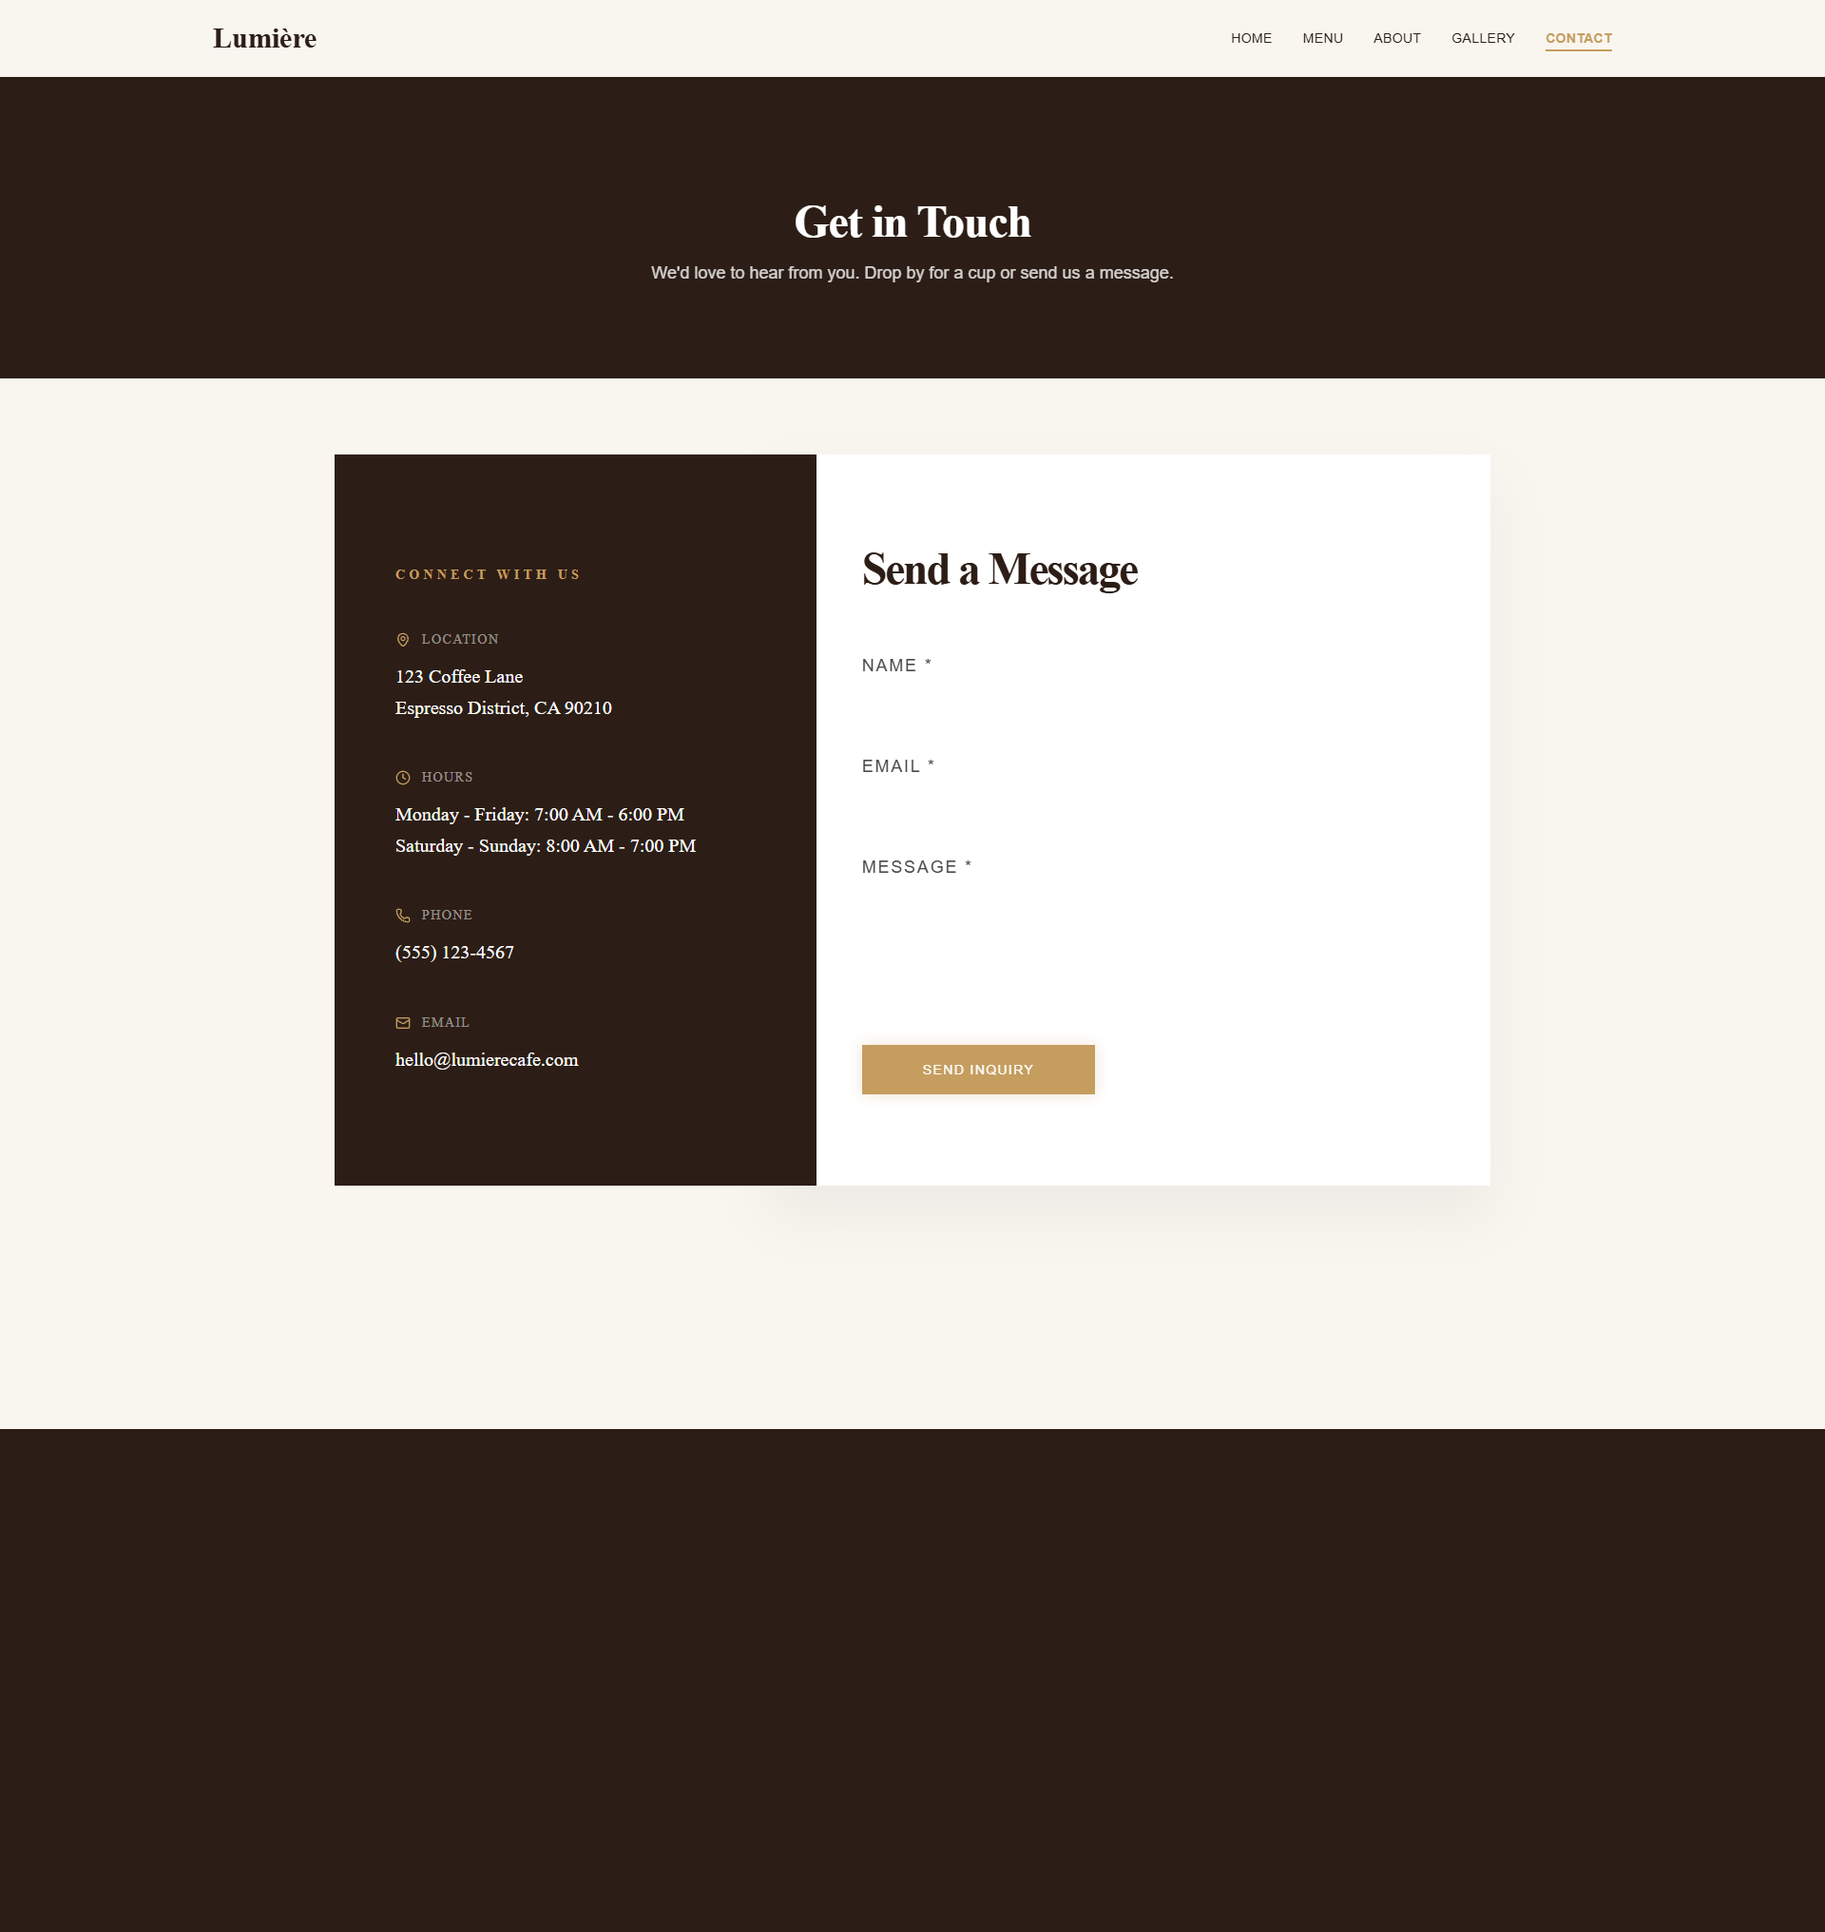
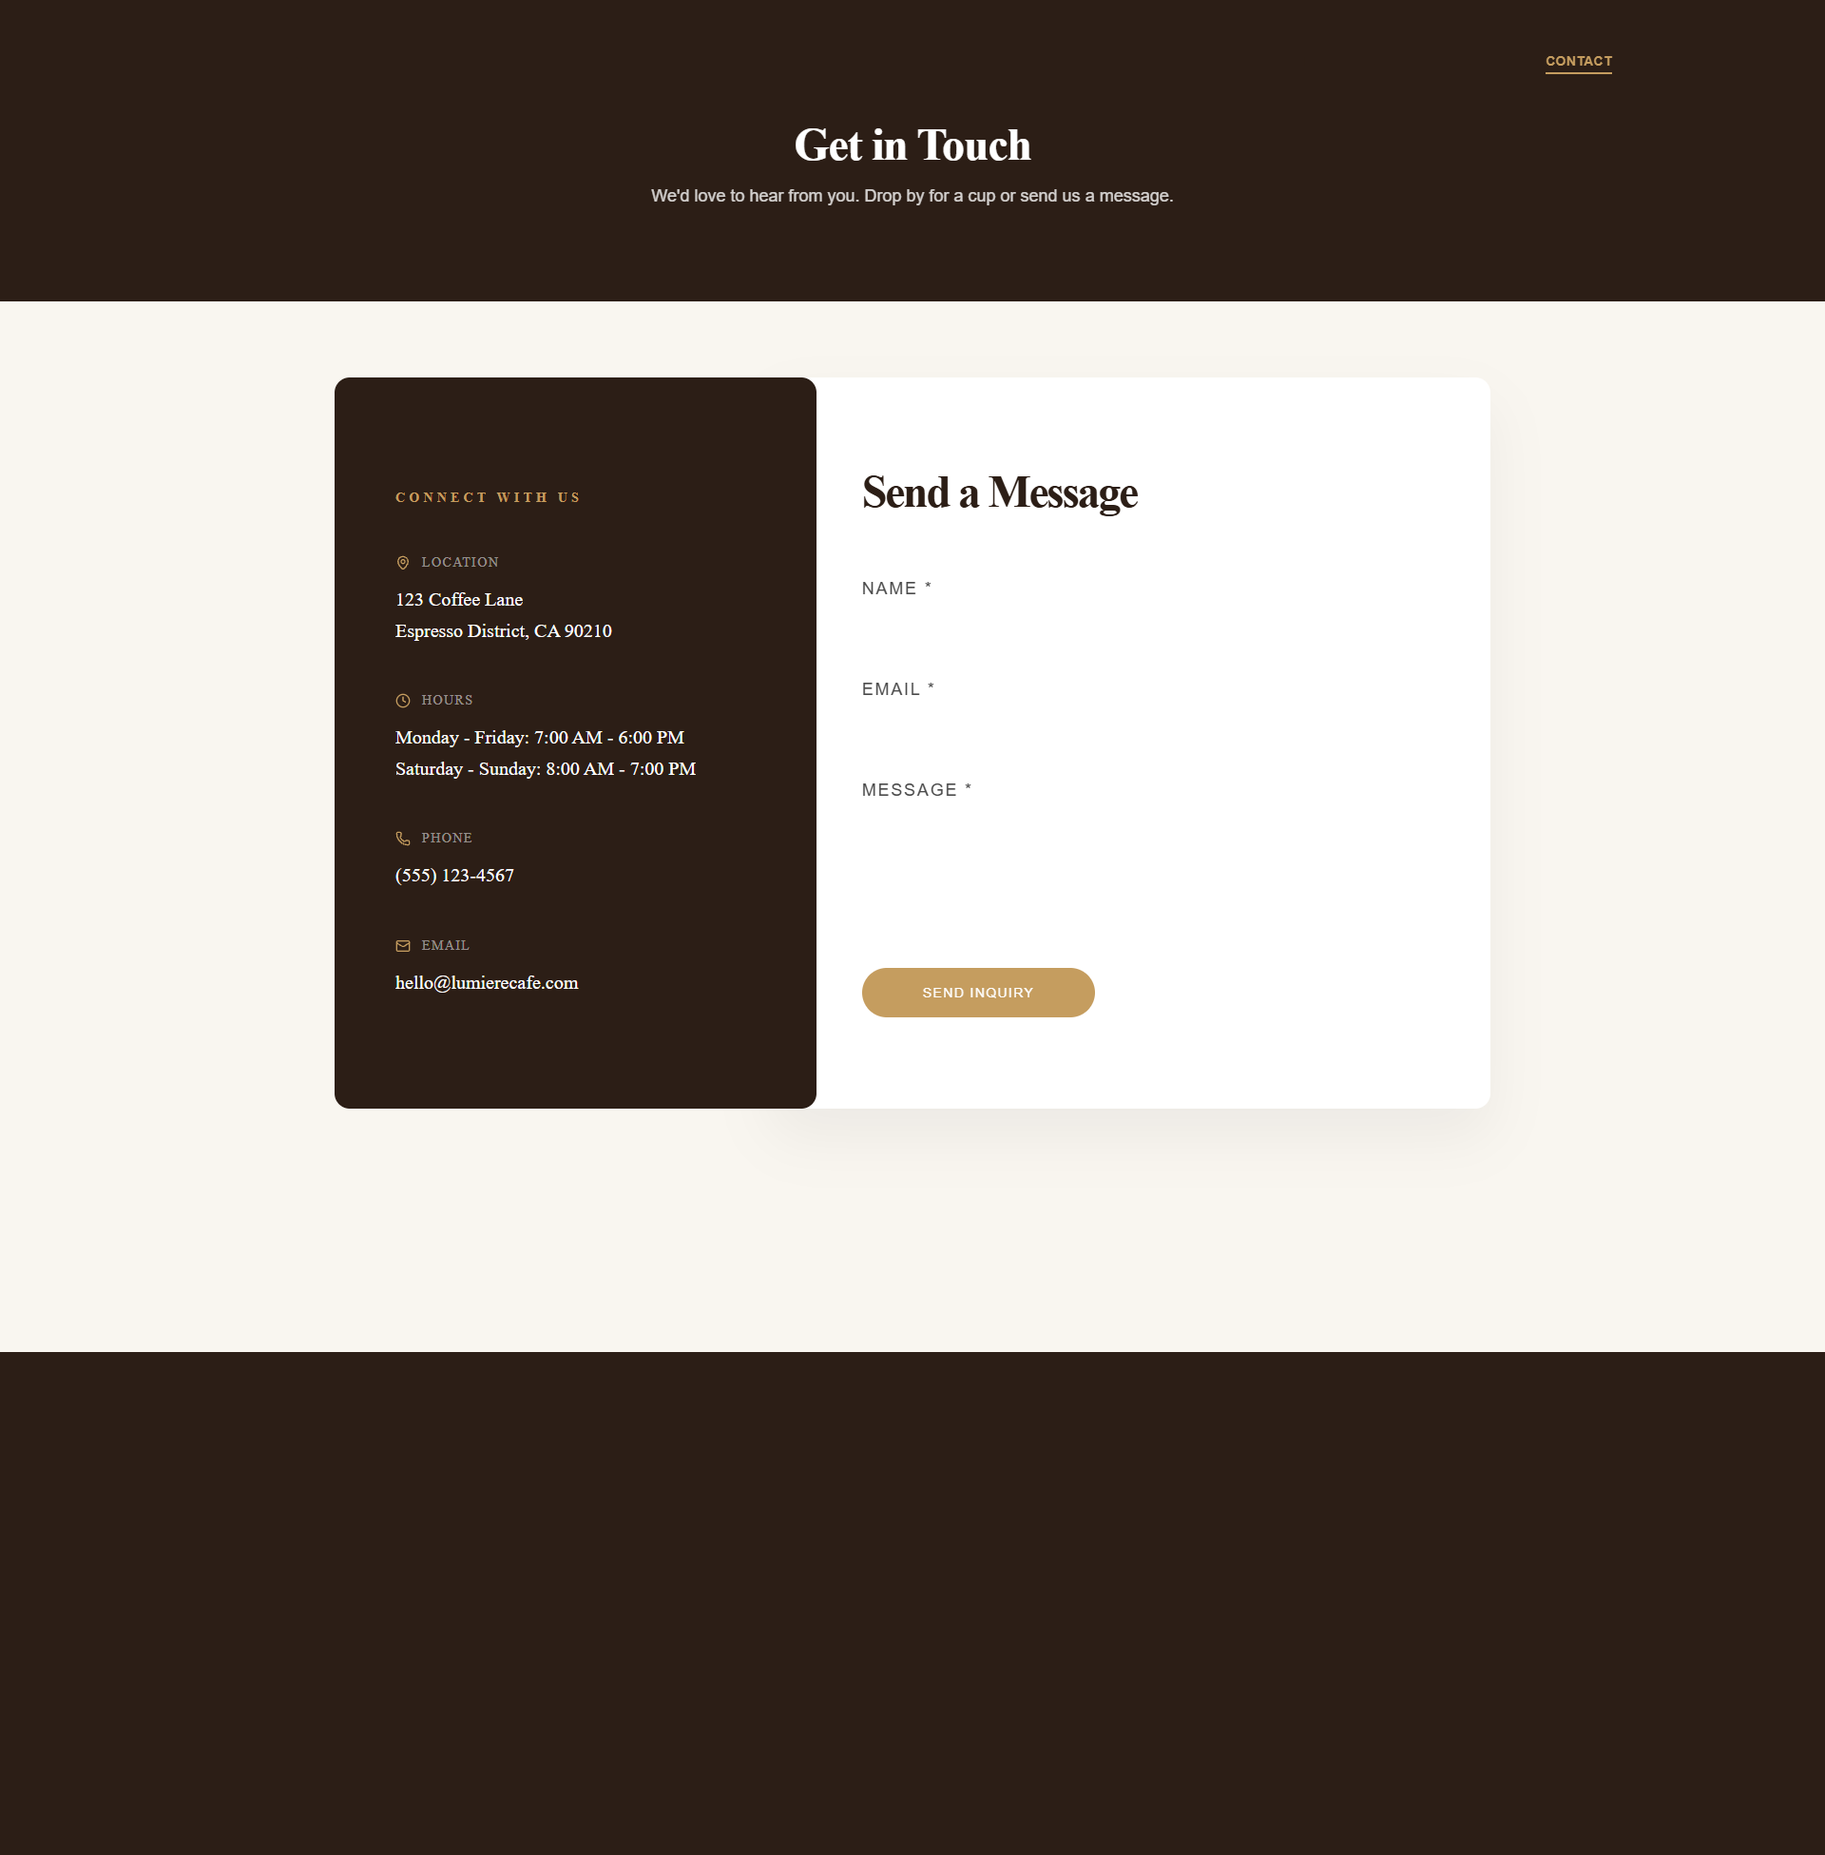
feat: pixel-perfect final polish, unified styling, and custom animations

diff --git a/src/pages/Home.jsx b/src/pages/Home.jsx
@@ -33,22 +33,22 @@ export default function Home() {
           />
         </div>
         
-        <div className="relative z-10 text-center px-4 max-w-4xl mx-auto animate-fade-in-up mt-8">
-          <h1 className="text-6xl md:text-8xl font-serif font-bold text-surface mb-6 tracking-tight drop-shadow-lg">
-            Awaken Your Senses
+        <div className="relative z-10 text-center px-4 max-w-5xl mx-auto animate-slide-up mt-8">
+          <h1 className="text-7xl md:text-8xl lg:text-[10rem] font-serif font-bold text-surface mb-8 tracking-tighter leading-[0.9] drop-shadow-2xl mix-blend-overlay">
+            Awaken Your Senses.
           </h1>
-          <p className="text-xl md:text-3xl text-surface/90 mb-12 max-w-3xl mx-auto font-light leading-relaxed drop-shadow-md">
+          <p className="text-xl md:text-3xl text-surface mb-16 max-w-3xl mx-auto font-light leading-relaxed drop-shadow-md">
             Experience artisanal coffee crafted with passion, precision, and the world's finest beans.
           </p>
-          <div className="flex flex-col sm:flex-row gap-6 justify-center">
+          <div className="flex flex-col sm:flex-row gap-6 justify-center items-center">
             <Link to="/menu">
-              <Button variant="primary" className="w-full sm:w-auto text-lg px-10 py-5 animate-pulse-glow">
+              <Button variant="primary" className="w-full sm:w-auto text-sm tracking-[0.2em] uppercase px-12 py-5 font-bold">
                 Explore Menu
-                <ArrowRight className="ml-3" size={22} />
+                <ArrowRight className="ml-4 transition-transform group-hover:translate-x-2" size={18} strokeWidth={2.5} />
               </Button>
             </Link>
             <Link to="/contact">
-              <Button variant="ghost" className="w-full sm:w-auto text-lg px-10 py-5">
+              <Button variant="ghost" className="w-full sm:w-auto text-sm tracking-[0.2em] uppercase px-12 py-5 font-bold">
                 Visit Us
               </Button>
             </Link>
@@ -56,14 +56,14 @@ export default function Home() {
         </div>
         
         {/* Scroll Indicator */}
-        <div className="absolute bottom-10 left-1/2 transform -translate-x-1/2 z-20 flex flex-col items-center animate-bounce-slow">
-          <span className="text-surface/80 text-sm tracking-widest uppercase font-medium mb-2">Scroll Down</span>
-          <div className="w-[1px] h-12 bg-gradient-to-b from-surface/80 to-transparent"></div>
+        <div className="absolute bottom-12 left-1/2 transform -translate-x-1/2 z-20 flex flex-col items-center">
+          <span className="text-surface text-xs tracking-[0.3em] uppercase font-bold mb-4 opacity-80">Discover</span>
+          <div className="w-[2px] h-16 bg-gradient-to-b from-surface to-transparent animate-slide-up origin-top"></div>
         </div>
       </section>
 
       {/* Featured Section */}
-      <section className="py-32 bg-background">
+      <section className="py-40 bg-background relative overflow-hidden">
         <div className="container mx-auto px-4 sm:px-6 lg:px-8">
           <RevealSection>
             <SectionHeader 
@@ -131,15 +131,16 @@ export default function Home() {
       </section>
 
       {/* Story Section */}
-      <section className="py-32 bg-primary text-surface relative overflow-hidden">
-        <div className="container mx-auto px-4 sm:px-6 lg:px-8 relative z-10">
-          <div className="grid grid-cols-1 lg:grid-cols-2 gap-20 items-center">
+      <section className="py-40 bg-primary text-surface relative overflow-hidden">
+        <div className="container mx-auto px-4 sm:px-6 lg:px-8 relative z-10 max-w-7xl">
+          <div className="grid grid-cols-1 lg:grid-cols-2 gap-24 items-center">
             <RevealSection>
-              <h2 className="text-5xl md:text-6xl font-serif font-bold mb-8 tracking-tight">The Pursuit of Perfection</h2>
-              <p className="text-surface/80 text-lg md:text-xl leading-relaxed mb-6 font-light">
+              <h3 className="text-secondary text-sm font-bold tracking-[0.3em] uppercase mb-6">Our Legacy</h3>
+              <h2 className="text-6xl md:text-7xl font-serif font-bold mb-10 tracking-tighter leading-[1.1]">The Pursuit of Perfection</h2>
+              <p className="text-surface/80 text-xl leading-relaxed mb-8 font-light">
                 Founded in 2018, Lumière was born from a simple belief: that coffee is more than just a morning routine—it's an experience, a craft, and a moment of connection.
               </p>
-              <p className="text-surface/80 text-lg md:text-xl leading-relaxed mb-10 font-light">
+              <p className="text-surface/80 text-xl leading-relaxed mb-12 font-light">
                 We ethically source the highest quality beans from sustainable farms worldwide, and roast them locally to bring out their intrinsic flavors. Every cup we serve is a testament to our dedication to the art of coffee.
               </p>
               <Link to="/about">

diff --git a/src/pages/Contact.jsx b/src/pages/Contact.jsx
@@ -86,7 +86,7 @@ export default function Contact() {
         <div className="grid grid-cols-1 lg:grid-cols-12">
           {/* Contact Info (Dark Card) */}
           <RevealSection className="lg:col-span-5 relative z-10">
-            <div className="bg-primary text-surface p-12 lg:p-16 h-full flex flex-col justify-center">
+            <div className="bg-primary text-surface p-12 lg:p-16 rounded-2xl h-full flex flex-col justify-center">
               <h3 className="text-sm uppercase tracking-[0.3em] text-secondary font-bold mb-12">Connect With Us</h3>
               
               <div className="space-y-12">
@@ -129,7 +129,7 @@ export default function Contact() {
 
           {/* Contact Form */}
           <RevealSection className="lg:col-span-7 delay-200">
-            <div className="bg-surface p-12 lg:p-24 shadow-[0_30px_60px_rgb(0,0,0,0.05)] lg:-ml-12 relative h-full">
+            <div className="bg-surface p-12 lg:p-24 shadow-[0_30px_60px_rgb(0,0,0,0.05)] rounded-2xl lg:-ml-12 relative h-full">
               <h2 className="text-4xl md:text-5xl font-serif font-bold text-primary mb-12 tracking-tighter">Send a Message</h2>
               
               {isSuccess && (
@@ -195,7 +195,7 @@ export default function Contact() {
                   <Button 
                     type="submit"
                     variant="primary"
-                    className="w-full md:w-auto px-16 rounded-none tracking-widest uppercase text-sm font-bold"
+                    className="w-full md:w-auto px-16 tracking-widest uppercase text-sm font-bold"
                     disabled={isSubmitting}
                   >
                     {isSubmitting ? 'Sending...' : 'Send Inquiry'}

diff --git a/src/components/common/Navbar.jsx b/src/components/common/Navbar.jsx
@@ -1,10 +1,19 @@
-import { useState } from 'react';
+import { useState, useEffect } from 'react';
 import { Link, useLocation } from 'react-router-dom';
 import { Menu, X } from 'lucide-react';
 
 export default function Navbar() {
   const [isOpen, setIsOpen] = useState(false);
+  const [scrolled, setScrolled] = useState(false);
   const location = useLocation();
+
+  useEffect(() => {
+    const handleScroll = () => {
+      setScrolled(window.scrollY > 50);
+    };
+    window.addEventListener('scroll', handleScroll);
+    return () => window.removeEventListener('scroll', handleScroll);
+  }, []);
 
   const navLinks = [
     { name: 'Home', path: '/' },
@@ -17,12 +26,12 @@ export default function Navbar() {
   const isActive = (path) => location.pathname === path;
 
   return (
-    <nav className="sticky top-0 z-50 bg-background/80 backdrop-blur-lg border-b border-secondary/10 shadow-sm">
+    <nav className={`fixed w-full top-0 z-50 transition-all duration-500 ${scrolled ? 'bg-background/90 backdrop-blur-xl border-b border-secondary/10 shadow-sm py-0' : 'bg-transparent py-4'}`}>
       <div className="container mx-auto px-4 sm:px-6 lg:px-8">
-        <div className="flex justify-between items-center h-20">
+        <div className={`flex justify-between items-center transition-all duration-500 ${scrolled ? 'h-16' : 'h-24'}`}>
           <div className="flex-shrink-0 flex items-center">
-            <Link to="/" className="text-3xl font-serif font-bold text-primary">
-              Lumière
+            <Link to="/" className="text-3xl font-serif font-bold text-primary tracking-tighter">
+              Lumière.
             </Link>
           </div>
           

diff --git a/src/pages/About.jsx b/src/pages/About.jsx
@@ -43,7 +43,7 @@ export default function About() {
         <div className="relative mb-40 lg:mb-64">
           <div className="grid grid-cols-1 lg:grid-cols-12 gap-8 items-center">
             <RevealSection className="lg:col-span-7 relative z-10">
-              <div className="bg-surface p-12 lg:p-16 shadow-[0_30px_60px_rgb(0,0,0,0.05)] rounded-none lg:-mr-32 relative">
+              <div className="bg-surface p-12 lg:p-16 shadow-[0_30px_60px_rgb(0,0,0,0.05)] rounded-2xl lg:-mr-32 relative">
                 <h3 className="text-sm uppercase tracking-[0.3em] text-secondary font-bold mb-6">Our Philosophy</h3>
                 <h2 className="text-4xl md:text-5xl font-serif font-bold text-primary mb-8 tracking-tighter">The Pursuit of the Perfect Pour</h2>
                 <p className="text-textMuted text-lg leading-relaxed mb-6 font-light">
@@ -77,7 +77,7 @@ export default function About() {
               />
             </RevealSection>
             <RevealSection className="lg:col-span-7 relative z-10 delay-200">
-              <div className="bg-primary text-surface p-12 lg:p-16 shadow-[0_30px_60px_rgb(0,0,0,0.15)] rounded-none lg:-ml-32 relative">
+              <div className="bg-primary text-surface p-12 lg:p-16 shadow-[0_30px_60px_rgb(0,0,0,0.15)] rounded-2xl lg:-ml-32 relative">
                 <h3 className="text-sm uppercase tracking-[0.3em] text-secondary font-bold mb-6">Our Sanctuary</h3>
                 <h2 className="text-4xl md:text-5xl font-serif font-bold mb-8 tracking-tighter">A Space for Community</h2>
                 <p className="text-surface/80 text-lg leading-relaxed mb-6 font-light">

diff --git a/src/components/common/Button.jsx b/src/components/common/Button.jsx
@@ -7,9 +7,9 @@ export default function Button({
   const baseStyles = "inline-flex items-center justify-center px-8 py-4 rounded-full font-medium transition-all duration-300 transform hover:-translate-y-1 active:scale-95 active:translate-y-0 focus:outline-none focus:ring-2 focus:ring-offset-2";
   
   const variants = {
-    primary: "bg-secondary text-surface shadow-[0_0_15px_rgba(197,157,95,0.3)] hover:shadow-[0_8_25px_rgba(197,157,95,0.5)] hover:bg-secondary/90 focus:ring-secondary/50",
-    outline: "bg-transparent text-primary border-2 border-primary hover:bg-primary hover:text-surface hover:shadow-lg focus:ring-primary/50",
-    ghost: "bg-surface/10 backdrop-blur-md text-surface border border-surface/30 hover:bg-surface/20 hover:shadow-lg focus:ring-surface/50"
+    primary: "bg-secondary text-surface relative overflow-hidden group hover:shadow-premium hover:bg-secondary/95 focus:ring-secondary/50 after:absolute after:inset-0 after:bg-white/10 after:translate-x-[-100%] hover:after:translate-x-0 after:transition-transform after:duration-500",
+    outline: "bg-transparent text-primary border border-primary/20 hover:border-primary hover:bg-primary/5 hover:shadow-sm focus:ring-primary/50",
+    ghost: "bg-surface/5 backdrop-blur-md text-surface border border-surface/20 hover:bg-surface/10 hover:shadow-premium focus:ring-surface/50"
   };
 
   const classes = `${baseStyles} ${variants[variant]} ${className}`;

diff --git a/tailwind.config.js b/tailwind.config.js
@@ -18,12 +18,15 @@ export default {
         serif: ['Playfair Display', 'serif'],
       },
       animation: {
-        'fade-in-up': 'fadeInUp 1s ease-out forwards',
-        'zoom-in': 'zoomIn 20s ease-out forwards',
-        'pulse-glow': 'pulseGlow 2s cubic-bezier(0.4, 0, 0.6, 1) infinite',
+        'fade-in-up': 'fadeInUp 1s cubic-bezier(0.22, 1, 0.36, 1) forwards',
+        'zoom-in': 'zoomIn 30s ease-out forwards',
         'shake': 'shake 0.5s cubic-bezier(.36,.07,.19,.97) both',
-        'slide-up': 'slideUp 0.5s ease-out forwards',
+        'slide-up': 'slideUp 0.5s cubic-bezier(0.22, 1, 0.36, 1) forwards',
         'bounce-slow': 'bounce 3s infinite',
+      },
+      boxShadow: {
+        'premium': '0 20px 40px rgba(0,0,0,0.08)',
+        'premium-hover': '0 30px 60px rgba(0,0,0,0.12)',
       },
       keyframes: {
         fadeInUp: {
@@ -33,10 +36,6 @@ export default {
         zoomIn: {
           '0%': { transform: 'scale(1)' },
           '100%': { transform: 'scale(1.1)' },
-        },
-        pulseGlow: {
-          '0%, 100%': { opacity: '1', boxShadow: '0 0 0 0 rgba(197,157,95, 0.4)' },
-          '50%': { opacity: '.8', boxShadow: '0 0 20px 10px rgba(197,157,95, 0)' },
         },
         shake: {
           '10%, 90%': { transform: 'translate3d(-1px, 0, 0)' },

diff --git a/src/components/common/Card.jsx b/src/components/common/Card.jsx
@@ -1,6 +1,6 @@
 export default function Card({ children, className = '', hover = true }) {
-  const baseStyles = "bg-surface rounded-2xl overflow-hidden shadow-sm border border-secondary/10";
-  const hoverStyles = hover ? "hover:shadow-[0_20px_40px_-15px_rgba(44,30,22,0.1)] hover:-translate-y-2 transition-all duration-500 group" : "";
+  const baseStyles = "bg-surface rounded-2xl overflow-hidden shadow-sm border border-secondary/5";
+  const hoverStyles = hover ? "hover:shadow-premium hover:-translate-y-2 transition-all duration-700 group" : "";
   
   return (
     <div className={`${baseStyles} ${hoverStyles} ${className}`}>
